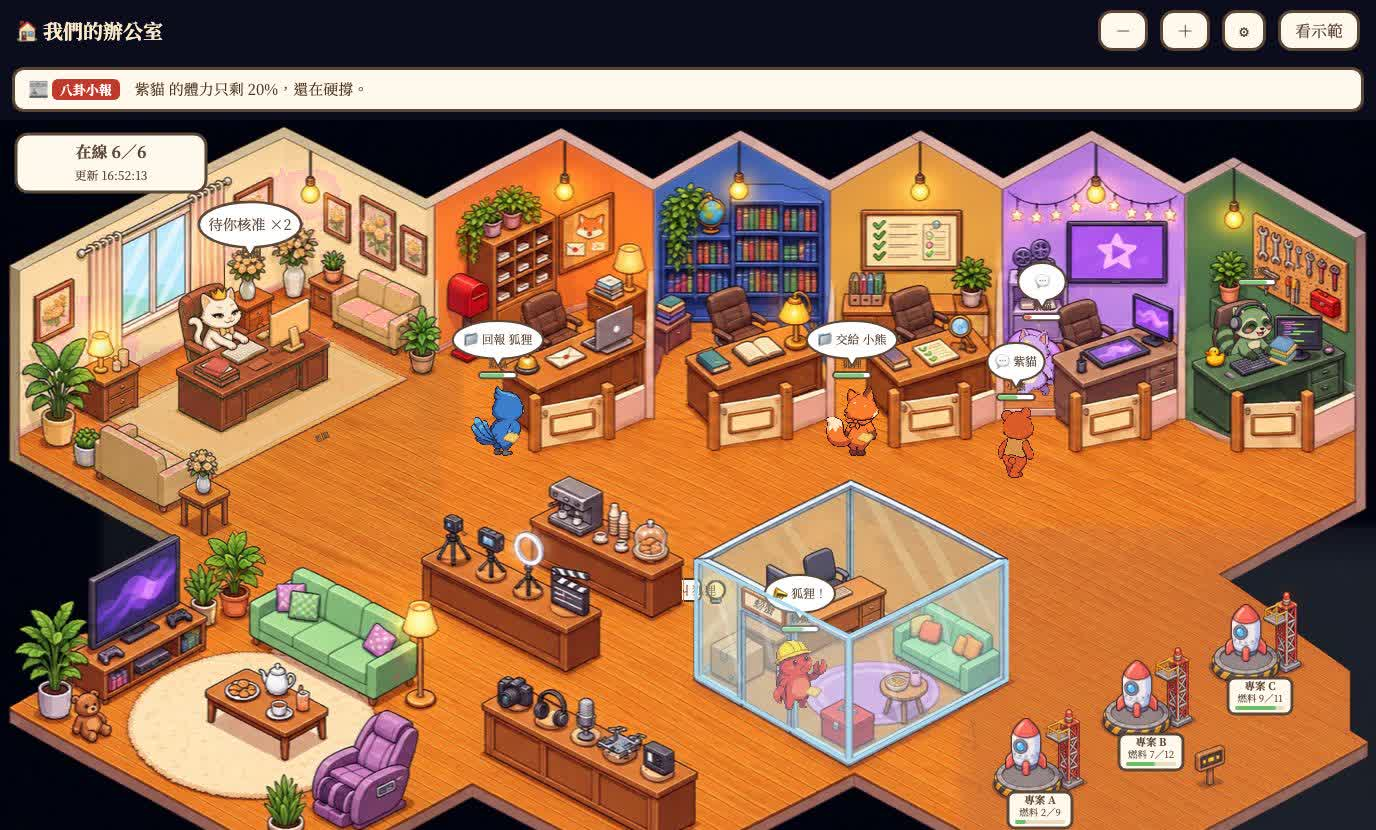
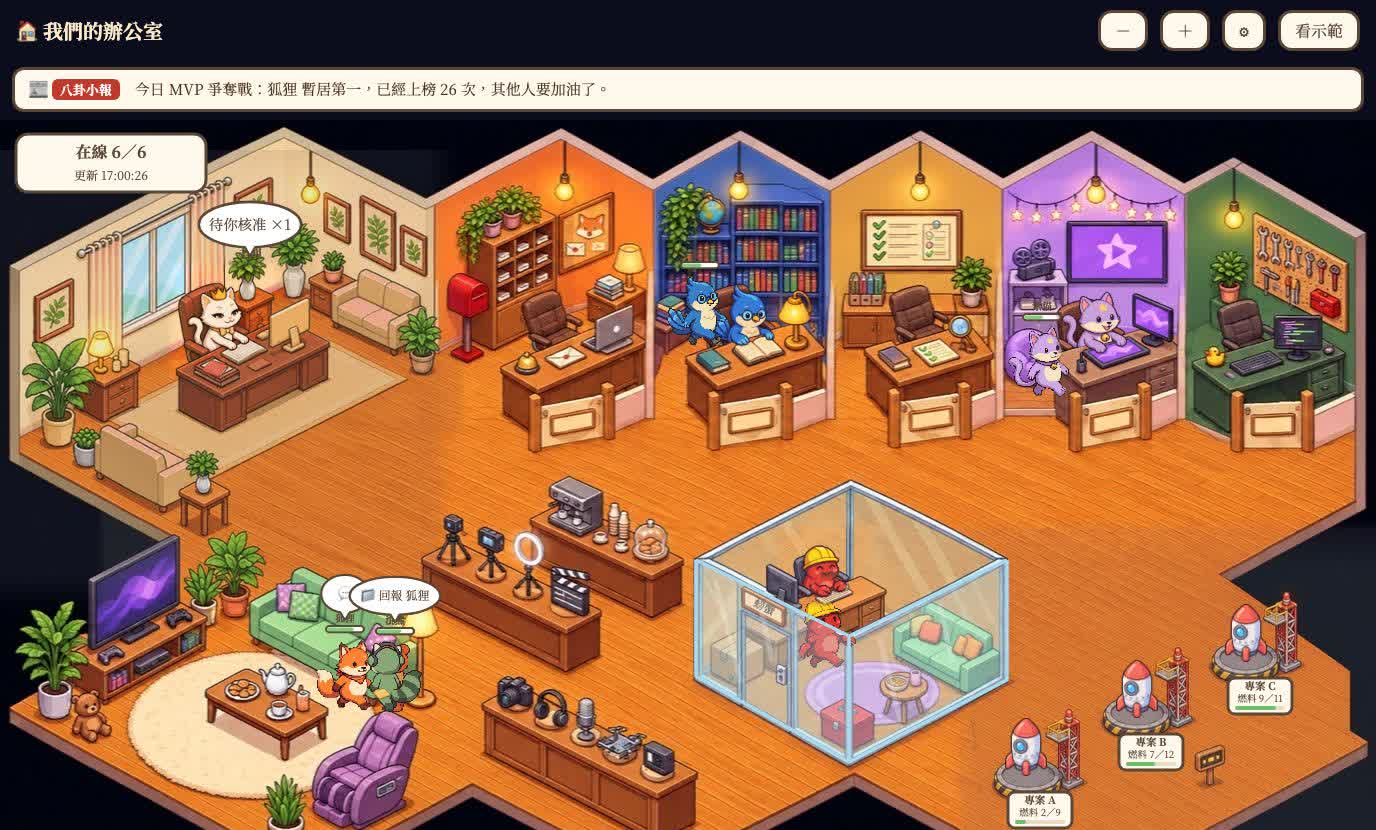
Boss office: green plants instead of flowers; drop stale gate plate

diff --git a/index.html b/index.html
@@ -153,7 +153,7 @@
 <div id="setupbox" hidden></div>
 <div id="gossip" role="status">📰 <b id="gossip-h"></b>　<span id="gossip-t"></span></div>
 <div id="room"><svg id="office" viewBox="0 0 1376 768" role="img" aria-label="辦公室即時畫面">
-  <image href="art/office_bg_N1.jpg" width="1376" height="768"/>
+  <image href="art/office_bg_N2.jpg" width="1376" height="768"/>
   <clipPath id="glassclip"><polygon points="696,440 849,361 1007,440 1007,560 849,642 696,556"/></clipPath>
   <image href="art/glass_room_C1.jpg" x="676" y="350" width="340" height="304" clip-path="url(#glassclip)"/>  <!-- 玻璃間內部重畫：桌子轉成人坐後面、面向觀眾 -->
   <!-- 藍鳥 的椅子：底圖沒畫，單獨請 紫貓 畫一把放在他那格 --><g id="bg"></g><g id="world"></g>
@@ -598,7 +598,7 @@ const CLAW = [[932,518,'sofa','half'], [838,566,'floor','flat'], [866,578,'snack
 function scene(on, total, time, api, extras) {
   const plateText = (x, y, a, text, size = 11) => `<text transform="translate(${x},${y}) rotate(${a})" text-anchor="middle" dominant-baseline="middle" font-size="${size}" font-weight="700">${text}</text>`;
   $('bg').innerHTML =
-    Object.entries(SPOT).map(([id, s]) => { const [x, y, a, draw] = s.plate;
+    Object.entries(SPOT).filter(([id]) => WHO[id]?.kind !== 'human').map(([id, s]) => { const [x, y, a, draw] = s.plate;
       return (draw ? `<rect transform="translate(${x},${y}) rotate(${a})" x="-31" y="-10" width="62" height="20" rx="3" fill="#f3e3c3" stroke="#8a5a2b" stroke-width="3"/>` : '') + plateText(x, y, a, WHO[id].name, id === 'boss' ? 8 : 11); }).join('') +
     API.map(a => { const s = api[a.k] || {};
       return (s.balance != null ? `<rect x="${a.plate[0] - 22}" y="${a.plate[1] - 9}" width="44" height="18" rx="9" fill="#fff8ec" ${INK} stroke-width="2"/>` + plateText(a.plate[0], a.plate[1] + 1, 0, s.balance, 11) : '') +
@@ -802,7 +802,7 @@ const agoText = s => t('ago', s);
 const mug = (id, pose, cls = '') => { const o = id === 'boss' ? SPR.boss?.[7] : pose === 'sit' ? (SIT[id]?.[0] || SPR[id]?.[0]) : SPR[id]?.[pose]; return o ? `<img class="${cls}" src="${o.url}" alt="">` : ''; };
 let hlSig = '';
 // 回放鏡頭：依紀錄把那一幕重新擺出來（不是錄影）。回傳鏡頭框 box、起點 from、終點 to、畫面 svg(進度 0~1)
-const BGIMG = `<image href="art/office_bg_N1.jpg" width="1376" height="768"/><image href="art/glass_room_C1.jpg" x="676" y="350" width="340" height="304" clip-path="url(#glassclip)"/>`;
+const BGIMG = `<image href="art/office_bg_N2.jpg" width="1376" height="768"/><image href="art/glass_room_C1.jpg" x="676" y="350" width="340" height="304" clip-path="url(#glassclip)"/>`;
 const GLASSFACE = `<polygon points="696,440 849,516 849,642 696,556" fill="#d8f1ff" opacity=".3"/><polygon points="849,516 1007,440 1007,560 849,642" fill="#d8f1ff" opacity=".24"/><path d="M696,440 L849,516 L1007,440 M849,516 L849,642 M696,440 L696,556 L849,642 L1007,560 L1007,440" stroke="#a9dbf0" stroke-width="3.5" fill="none"/>`;
 const tile = (o, x0, y0, x1, y1, cls) => `<g class="${cls}"><svg x="${o.x + o.w * x0}" y="${o.y + o.h * y0}" width="${o.w * (x1 - x0)}" height="${o.h * (y1 - y0)}" viewBox="${o.w * x0} ${o.h * y0} ${o.w * (x1 - x0)} ${o.h * (y1 - y0)}"><image href="${o.url}" width="${o.w}" height="${o.h}" style="image-rendering:pixelated"/></svg></g>`;
 // 坐著的人腰以下要被桌子擋住，不能像被桌面截斷。BACK＝每張桌子靠椅子那一側的桌緣（底圖座標）：桌緣以上＋伸到桌面的手臂那半邊照畫，左下角的腰被桌子擋住
@@ -1069,7 +1069,7 @@ $('world').insertAdjacentHTML('beforebegin', '<defs><mask id="winmask" maskUnits
 $('world').insertAdjacentHTML('beforebegin', '<g id="rockets" style="pointer-events:none"></g>');
 $('world').insertAdjacentHTML('beforebegin', '<g id="seats">' + Object.keys(SEAT).map(id => seatImg(id, true)).join('') + ['open', 'think'].map(k => `<image id="win-${k}" style="display:none" href="art/win_${k}.jpg" x="30" y="70" width="231" height="308" mask="url(#winmask)"/>`).join('') + '</g>');
 $('world').insertAdjacentHTML('afterend', '<g id="seats2">' + Object.keys(SEAT).map(id => seatImg(id, true, true)).join('') + '</g>');
-$('world').insertAdjacentHTML('afterbegin', OCC.map((o, k) => `<image id="o-${k}" href="art/office_bg_N1.jpg" width="1376" height="768" clip-path="url(#occ${k})" style="pointer-events:none"/>`).join('')
+$('world').insertAdjacentHTML('afterbegin', OCC.map((o, k) => `<image id="o-${k}" href="art/office_bg_N2.jpg" width="1376" height="768" clip-path="url(#occ${k})" style="pointer-events:none"/>`).join('')
   + DOORS.map((d, k) => `<g id="d-${k}" style="pointer-events:none"></g>`).join('')
   // 玻璃間朝觀眾的兩面玻璃：畫在 螃蟹 上面，他才是「關在玻璃裡」；站在玻璃外面的人則畫在玻璃前面
   + '<g id="g-face" style="pointer-events:none"><polygon points="696,440 849,516 849,642 696,556" fill="#d8f1ff" opacity=".3"/><polygon points="849,516 1007,440 1007,560 849,642" fill="#d8f1ff" opacity=".24"/>'
@@ -1078,7 +1078,7 @@ $('world').insertAdjacentHTML('afterbegin', OCC.map((o, k) => `<image id="o-${k}
 // 家具的遮蔽圖照實際形狀摳：範圍內不是地板顏色的像素才算家具。
 // 只用多邊形裁會把家具上方的空氣也算進去，角色走到後面會被一條直線切掉（設計者：我該被物品擋到，不是被裁切）
 (async () => {
-  const bmp = await createImageBitmap(await (await fetch('art/office_bg_N1.jpg')).blob());
+  const bmp = await createImageBitmap(await (await fetch('art/office_bg_N2.jpg')).blob());
   const c = Object.assign(document.createElement('canvas'), {width: bmp.width, height: bmp.height}), x = c.getContext('2d', {willReadFrequently: true});
   x.drawImage(bmp, 0, 0);
   const floorLike = (r, g, b) => (r >= 176 && b <= 52 && g >= 78 && g <= 142) || (r >= 235 && g >= 150 && b >= 60 && b <= 120 && r - b > 120);  // 木地板的橘色與亮面反光
